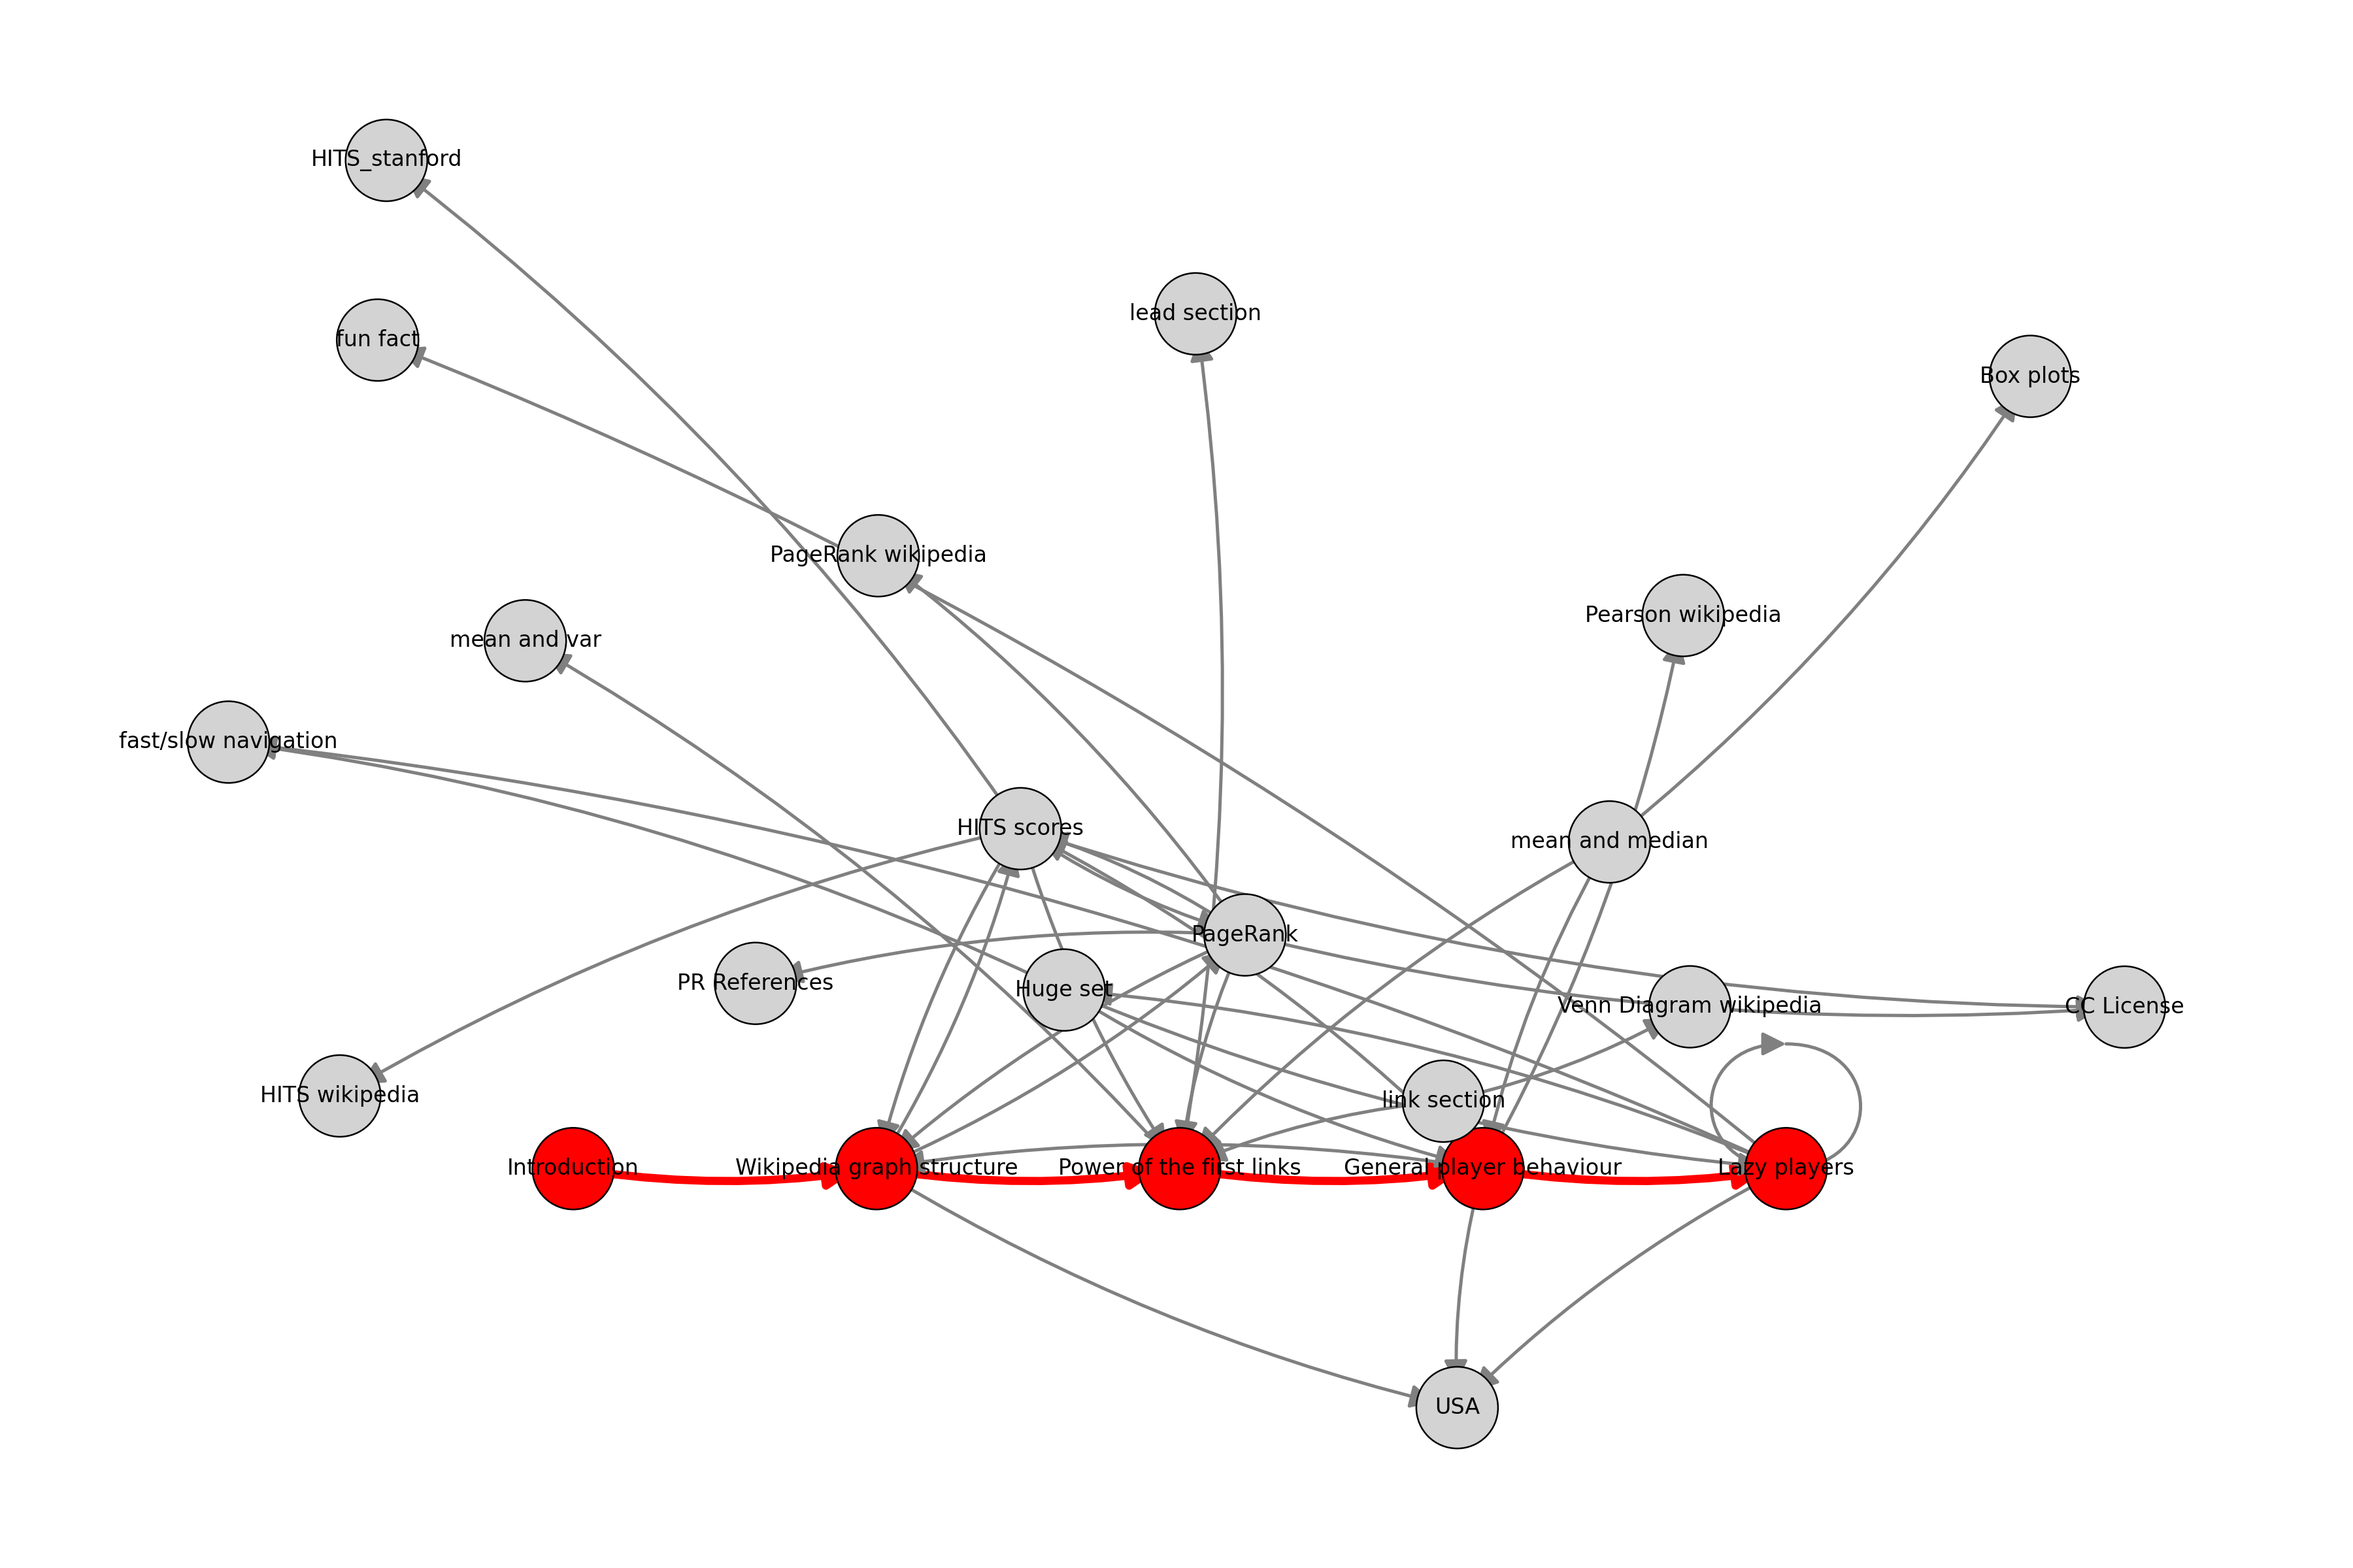
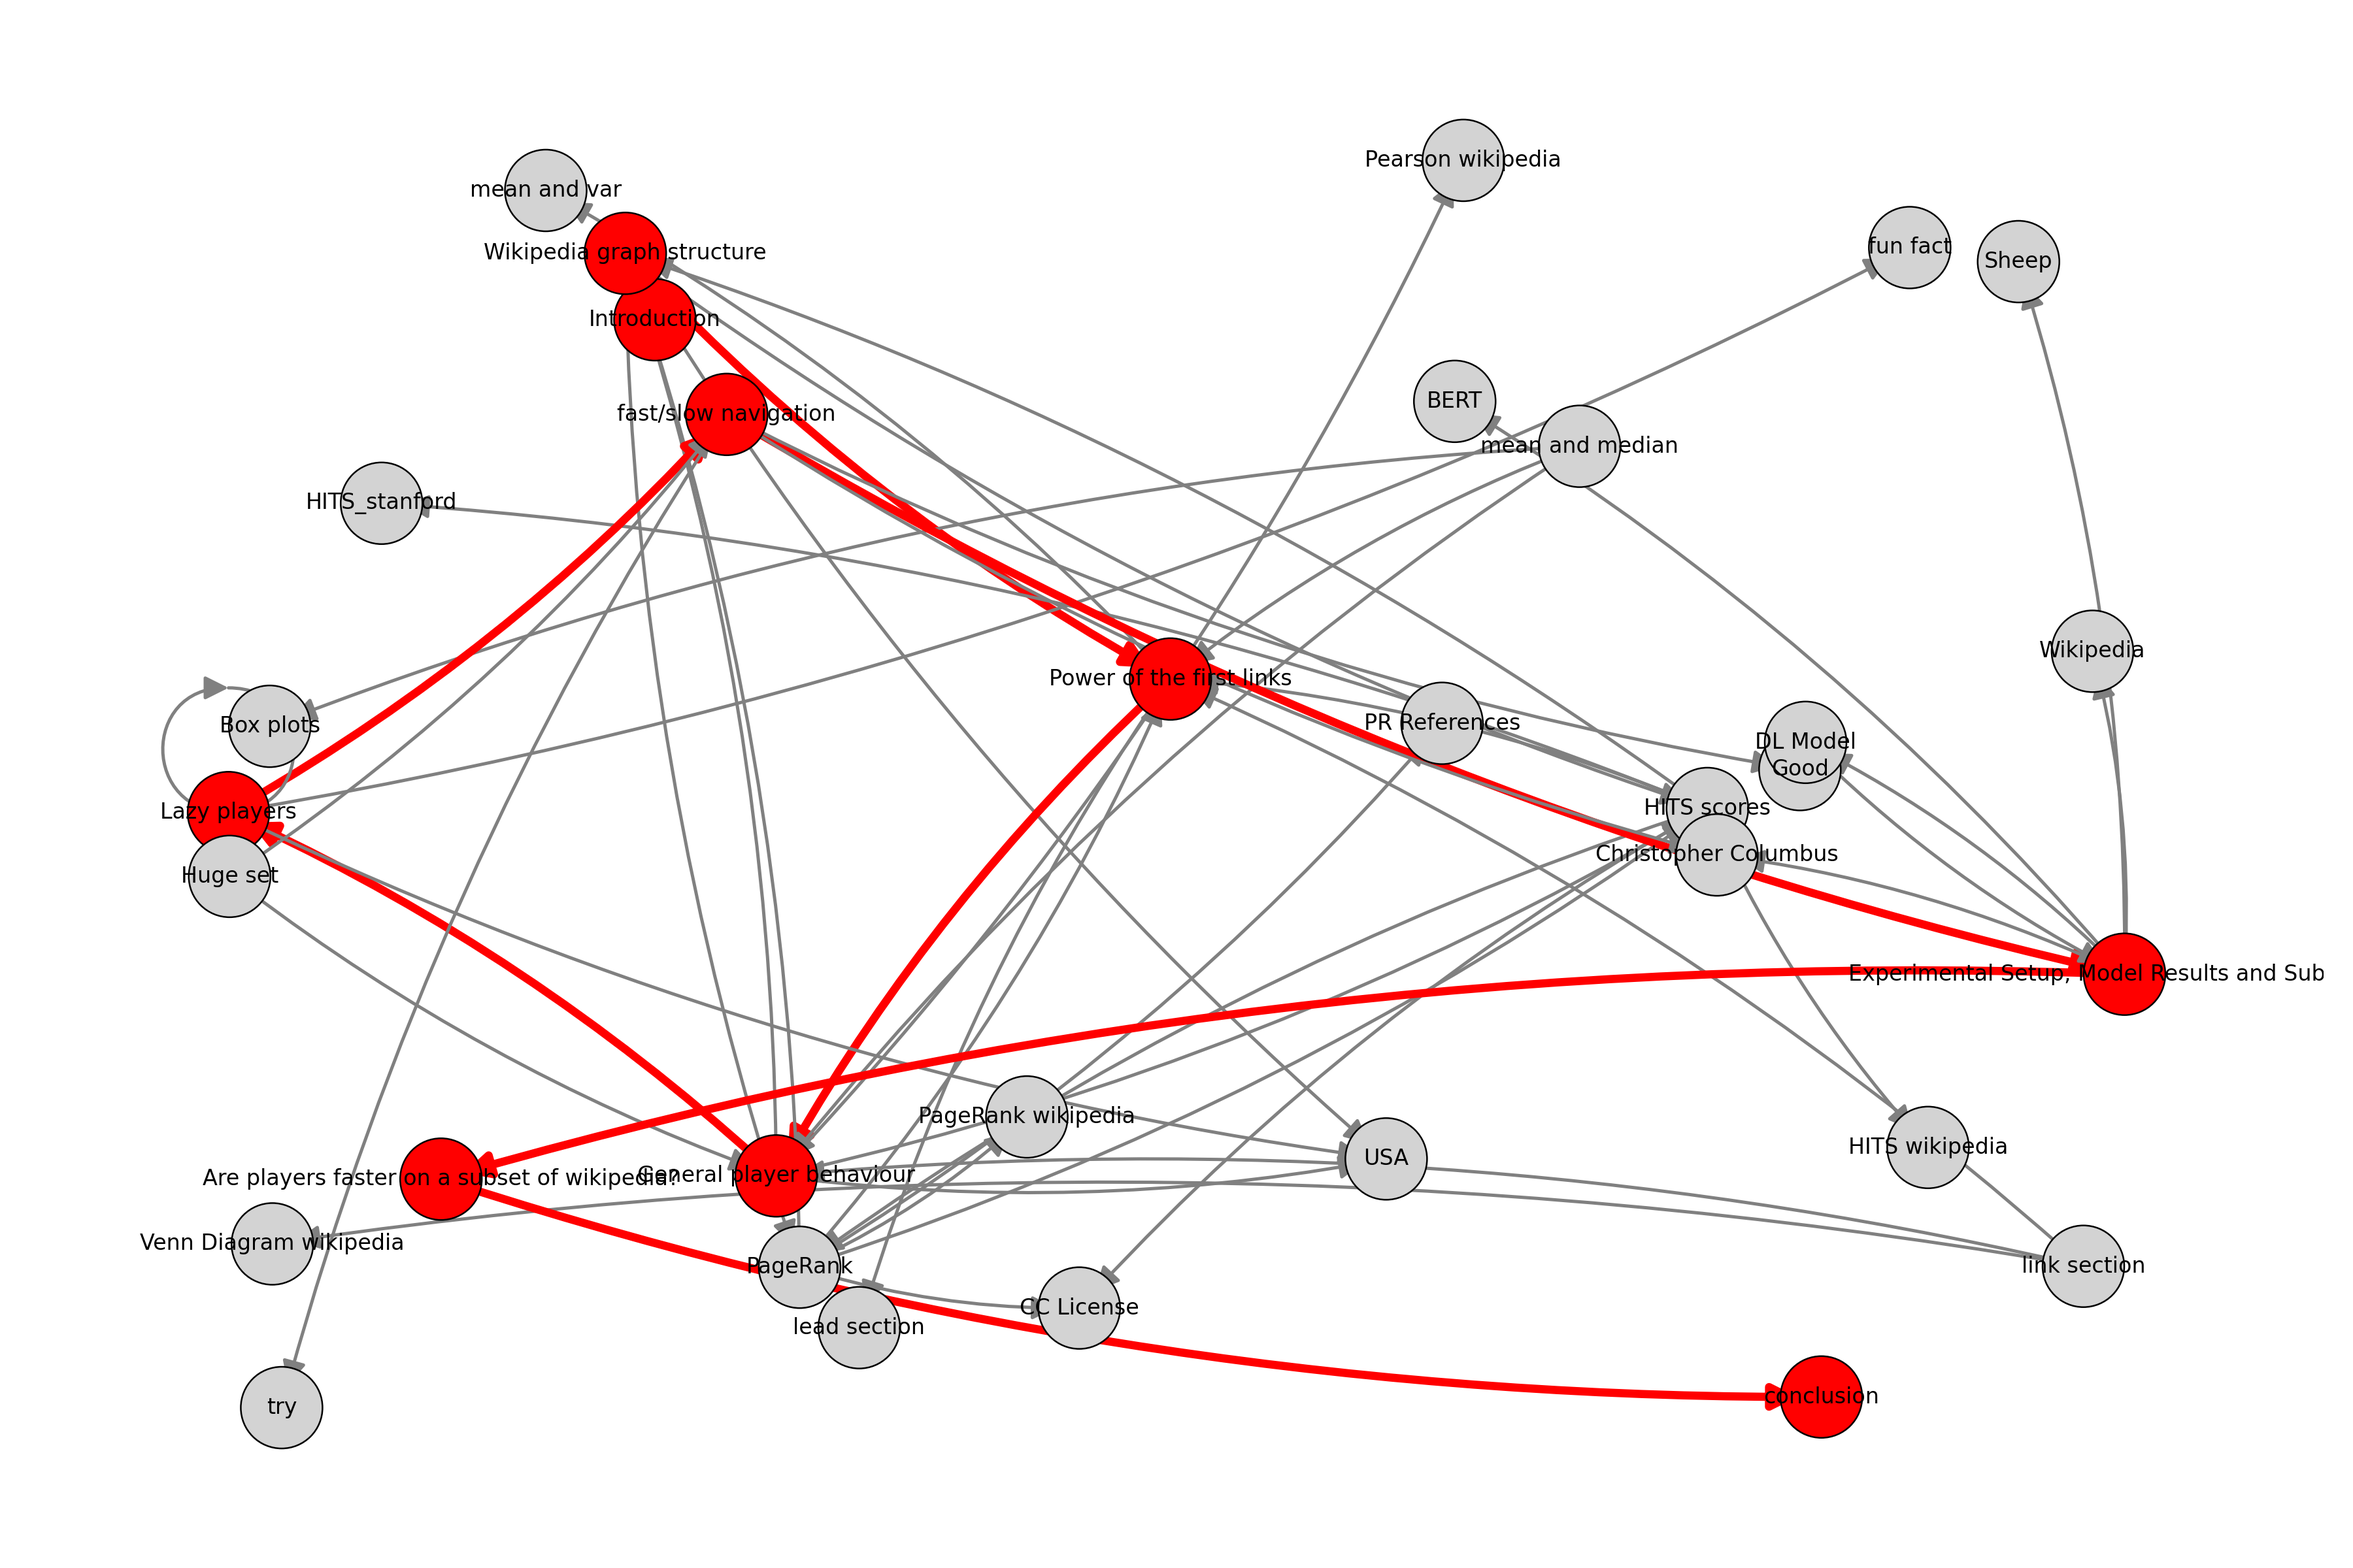
new graph

diff --git a/plot_graph.py b/plot_graph.py
@@ -18,7 +18,11 @@ red_nodes = {
     "Introduction",
     "Power of the first links",
     "General player behaviour",
-    "Lazy players"
+    "Lazy players",
+    "fast/slow navigation",
+    "Experimental Setup, Model Results and Subgraphs",
+    "Are players faster on a subset of wikipedia?",
+    "conclusion"
 }
 
 backbone_order = [
@@ -26,7 +30,11 @@ backbone_order = [
     "Wikipedia graph structure",
     "Power of the first links",
     "General player behaviour",
-    "Lazy players"
+    "Lazy players",
+    "fast/slow navigation",
+    "Experimental Setup, Model Results and Subgraphs",
+    "Are players faster on a subset of wikipedia?",
+    "conclusion"
 ]
 
 red_edges = {
@@ -34,6 +42,10 @@ red_edges = {
     ("Wikipedia graph structure", "Power of the first links"),
     ("Power of the first links", "General player behaviour"),
     ("General player behaviour", "Lazy players"),
+    ("Lazy players", "fast/slow navigation"),
+    ("fast/slow navigation", "Experimental Setup, Model Results and Subgraphs"),
+    ("Experimental Setup, Model Results and Subgraphs", "Are players faster on a subset of wikipedia?"),
+    ("Are players faster on a subset of wikipedia?", "conclusion")
 }
 
 # 4) colors
@@ -43,18 +55,20 @@ edge_widths = [3.0 if (u, v) in red_edges else 1.2 for (u, v) in G.edges()]
 
 pos = {}
 for i, n in enumerate(backbone_order):
-    pos[n] = (i * 100, 0) 
+    pos[n] = (500*i, 4000-300*i)  # x, y
 
 # Layout
 pos = nx.spring_layout(
     G,
     pos=pos,
     fixed=backbone_order,
-    seed=42,
-    k=0.2, # increase to spread things out
-    iterations=300
+    seed=15,
+    k=0.6, # increase to spread things out
+    iterations=2
 )
-# pos = nx.kamada_kawai_layout(G, pos=pos)
+#pos = nx.kamada_kawai_layout(G)
+
+#pos = nx.random_layout(G, seed=0)
 
 plt.figure(figsize=(12, 8))
 
@@ -71,5 +85,5 @@ nx.draw_networkx_labels(G, pos, font_size=8)
 
 plt.axis("off")
 plt.tight_layout()
-plt.savefig("assets/img/gamegraph.png", dpi=300)
+#plt.savefig("assets/img/gamegraph.png", dpi=300)
 plt.show()

diff --git a/story/3_a.md b/story/3_a.md
@@ -10,7 +10,7 @@ To understand better the impact the size of the graph, we constructed subgraphs 
 
 ### Experimental Setup and Model Results
 
-We trained a [deep learning model]({{ '/story/others/Dl_model' | relative_url }}) to imitate human behavior in the game *Wikispeedia*. The model predicts which link a player would click next based on the current article, the target article, the player's navigation history, and contextual information about each candidate link, such as the anchor sentence, link position, and the first sentence of the destination article. Textual information is encoded using [BERT]({{ '/story/others/BERT' | relative_url }}) embeddings, and the model uses a PageRank architecture with a context encoder and a candidate encoder.
+We trained a [deep learning model]({{ '/story/others/DL_model' | relative_url }}) to imitate human behavior in the game *Wikispeedia*. The model predicts which link a player would click next based on the current article, the target article, the player's navigation history, and contextual information about each candidate link, such as the anchor sentence, link position, and the first sentence of the destination article. Textual information is encoded using [BERT]({{ '/story/others/BERT' | relative_url }}) embeddings, and the model uses a PageRank architecture with a context encoder and a candidate encoder.
 
 #### Model Evaluation
 
